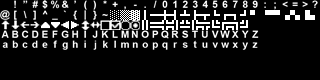
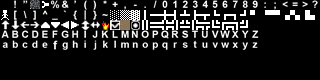
Add files via upload

diff --git a/GAME.py b/GAME.py
@@ -6,7 +6,8 @@ import math
 import random
 import math
 import time
-import os, datetime
+import os 
+import datetime
 from compiler.ast import flatten
 import sys
 ladder=["terrible", "poor", "mediocre", "average","fair", "good",  "great", "superb", "fantastic", "legendary", ]
@@ -54,7 +55,14 @@ def charactercreation():
 	libtcod.console_print(0,0,12,charnombre+ " is a "+ladder[charlore]+" lore knower")
 	charexplorer=random.randint(0,4)
 	libtcod.console_print(0,0,13,charnombre+ " is a "+ladder[charexplorer]+" explorer")
-    
+def load_customfont():
+	a = 256
+ 
+	print("meh")
+	libtcod.console_map_ascii_code_to_font(256, 0, 6)
+	libtcod.console_map_ascii_code_to_font(257, 1, 6)
+	
+load_customfont()		
 charactercreation()
 enemies_spawned=0
 number_of_planets=50
@@ -63,10 +71,22 @@ spacexmin=0-100
 spaceymax=100
 spaceymin=0-100
 current_planet=0
+wall_tile = 256 
+floor_tile = 257
+player_tile = 258
+orc_tile = 259
+troll_tile = 260
+scroll_tile = 261
+healingpotion_tile = 262
+sword_tile = 263
+shield_tile = 264
+stairsdown_tile = 265
+dagger_tile = 266
 player_radioactivity=30 #0
 fov_map=libtcod.map_new(screen_width-1, screen_width-1)
 messages=[]
 libtcod.console_set_custom_font('arial10x10.png', libtcod.FONT_TYPE_GREYSCALE | libtcod.FONT_LAYOUT_TCOD)
+
 messages=[""]*4
 #makes screen
 libtcod.console_init_root(screen_width, screen_width*6/5, 'Game', False)
@@ -672,15 +692,17 @@ def ground_draw(shooting_mode):
 						libtcod.console_put_char(0,larmour.x,larmour.y,"a", libtcod.BKGND_NONE)
 				if planet[current_planet].tiles[x][y][current_floor].blocked==True and player_health>0 and libtcod.map_is_in_fov(fov_map,x,y):
 					libtcod.console_set_default_foreground(0, libtcod.white)
-					if hasattr(planet[current_planet].tiles[x][y][current_floor],"status_effect") and planet[current_planet].tiles[x][y][current_floor].status_effect!=None and planet[current_planet].tiles[x][y][current_floor].status_effect.effect=="fire":
-						libtcod.console_set_default_foreground(0, libtcod.orange)
-					libtcod.console_put_char(0, x, y, "#", libtcod.BKGND_NONE)
-				elif planet[current_planet].tiles[x][y][current_floor].blocked==False and player_health>0 and libtcod.map_is_in_fov(fov_map,x,y) :
-				
-					if hasattr(planet[current_planet].tiles[x][y][current_floor],"status_effect") and planet[current_planet].tiles[x][y][current_floor].status_effect!=None and planet[current_planet].tiles[x][y][current_floor].status_effect.effect=="fire":
-						libtcod.console_set_default_foreground(0, libtcod.orange)
 					
-					libtcod.console_put_char(0, x, y, ".", libtcod.BKGND_NONE)
+					libtcod.console_put_char_ex(0, x, y, "#",  libtcod.white, libtcod.black)
+				elif planet[current_planet].tiles[x][y][current_floor].blocked==False and player_health>0 and libtcod.map_is_in_fov(fov_map,x,y) :
+					#CHAR_CHECKBOX_UNSET
+					
+					
+					libtcod.console_put_char_ex(0, x, y, 9, libtcod.white, libtcod.black)
+					if hasattr(planet[current_planet].tiles[x][y][current_floor],"status_effect") and planet[current_planet].tiles[x][y][current_floor].status_effect!=None and planet[current_planet].tiles[x][y][current_floor].status_effect.effect=="fire":
+						libtcod.console_put_char_ex(0, x, y, 224, libtcod.white, libtcod.black)
+				
+					
 				else:
 					libtcod.console_put_char(0,x,y," ", libtcod.BKGND_NONE)
 				libtcod.console_set_default_foreground(0, libtcod.white)
@@ -971,7 +993,7 @@ def space_draw():
 			libtcod.console_set_default_foreground(0, planet[x].color)
 			libtcod.console_put_char(0, planet[x].x-top_left[0],planet[x].y-top_left[1], "O", libtcod.BKGND_NONE)
 	libtcod.console_set_default_foreground(0, libtcod.white)
-	libtcod.console_put_char(0, spacex-top_left[0], spacey-top_left[1], "@", libtcod.BKGND_NONE)
+	libtcod.console_put_char(0, spacex-top_left[0], spacey-top_left[1], "$", libtcod.BKGND_NONE)
 	
 	
 			
